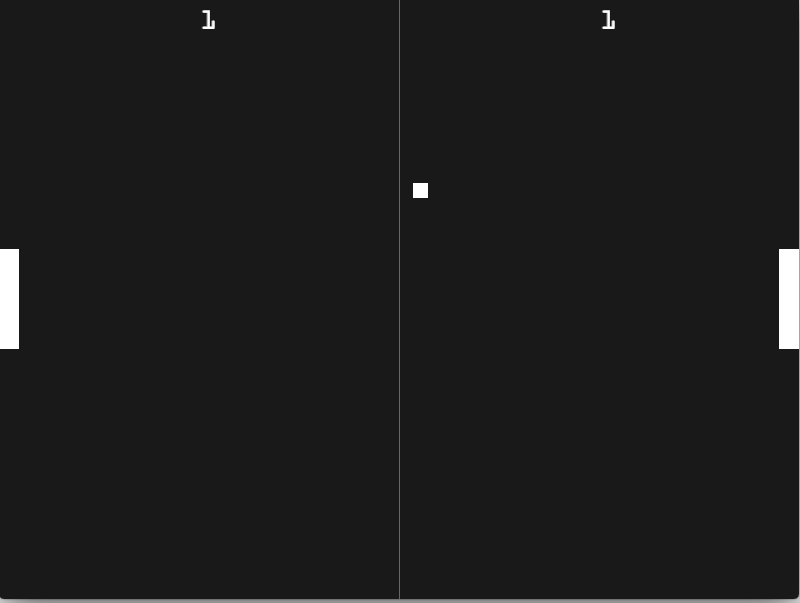
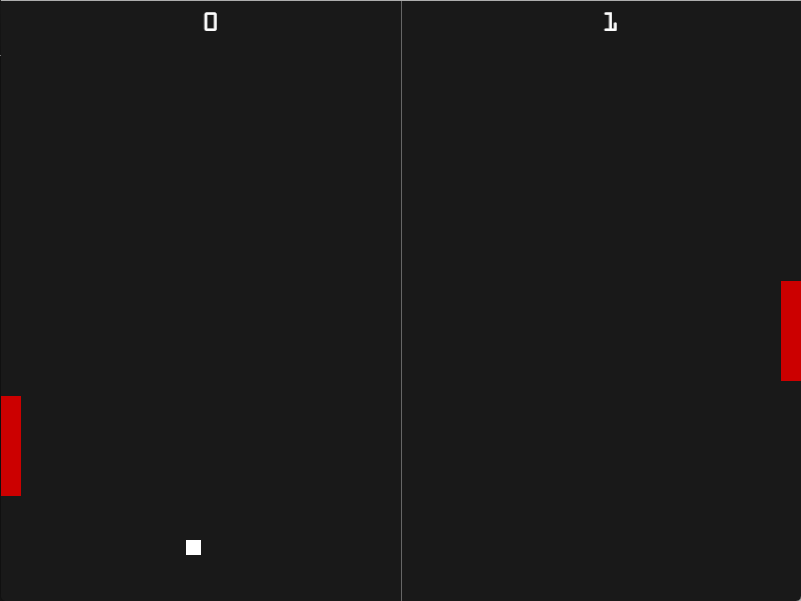
updated example screenshots

diff --git a/examples/mandelbrot/mandelbrot.rs b/examples/mandelbrot/mandelbrot.rs
@@ -74,26 +74,26 @@ impl Game2d for Mandelbrot {
     fn press(&mut self, btn: &Button) {
         if let &Button::Keyboard(key) = btn {
             match key {
-                Key::PageDown => {
-                    self.zoom *= 2.0
-                },
                 Key::PageUp => {
                     self.zoom /= 2.0;
                     if self.zoom < 1.0 {
                         self.zoom = 1.0;
                     }
-                },
-                Key::Right => {
-                    self.x_shift += 1.0 / self.zoom;
-                },
-                Key::Left => {
-                    self.x_shift -= 1.0 / self.zoom;
+                },                
+                Key::PageDown => {
+                    self.zoom *= 2.0
                 },
                 Key::Up => {
                     self.y_shift -= 1.0 / self.zoom;
                 },
                 Key::Down => {
                     self.y_shift += 1.0 / self.zoom;
+                },
+                Key::Right => {
+                    self.x_shift += 1.0 / self.zoom;
+                },
+                Key::Left => {
+                    self.x_shift -= 1.0 / self.zoom;
                 },
                 _ => () 
             }
@@ -103,9 +103,10 @@ impl Game2d for Mandelbrot {
     fn release(&mut self, btn: &Button) {
         if let &Button::Keyboard(key) = btn {
             match key {
-                _ => {
+                Key::PageUp | Key::PageDown | Key::Up | Key::Down | Key::Right | Key ::Left => {
                     self.generate_texture();
-                }
+                },
+                _ => ()
             }
         }
     }

diff --git a/examples/pong/sprites/rightpaddle.rs b/examples/pong/sprites/rightpaddle.rs
@@ -1,7 +1,7 @@
 use piston_window::*;
 use piston2dtemplate::{Sprite2d, Screen};
 
-const WHITE: [f32; 4] = [1.0, 1.0, 1.0, 1.0];
+const RED: [f32; 4] = [0.8, 0.0, 0.0, 1.0];
 
 pub struct RightPaddle{
     pub pos: f64,
@@ -16,7 +16,7 @@ impl Sprite2d for RightPaddle {
     
     fn render(&self, _: &mut Glyphs, ctx: &Context, g: &mut G2d) {
         let shape = rectangle::rectangle_by_corners(self.screen_width-self.width,0.0,self.screen_width,self.height);
-        rectangle(WHITE, shape, ctx.transform.trans(0.0,self.pos), g);
+        rectangle(RED, shape, ctx.transform.trans(0.0,self.pos), g);
     }
 
 }

diff --git a/examples/pong/sprites/leftpaddle.rs b/examples/pong/sprites/leftpaddle.rs
@@ -1,7 +1,7 @@
 use piston_window::*;
 use piston2dtemplate::{Screen,Sprite2d};
 
-const WHITE: [f32; 4] = [1.0, 1.0, 1.0, 1.0];
+const RED: [f32; 4] = [0.8, 0.0, 0.0, 1.0];
 
 pub struct LeftPaddle{
     pub pos: f64,
@@ -15,7 +15,7 @@ impl Sprite2d for LeftPaddle {
     
     fn render(&self, _: &mut Glyphs, ctx: &Context, g: &mut G2d) {
         let shape = rectangle::rectangle_by_corners(0.0,0.0,self.width,self.height);
-        rectangle(WHITE, shape, ctx.transform.trans(0.0,self.pos), g);
+        rectangle(RED, shape, ctx.transform.trans(0.0,self.pos), g);
     }
 
 }
